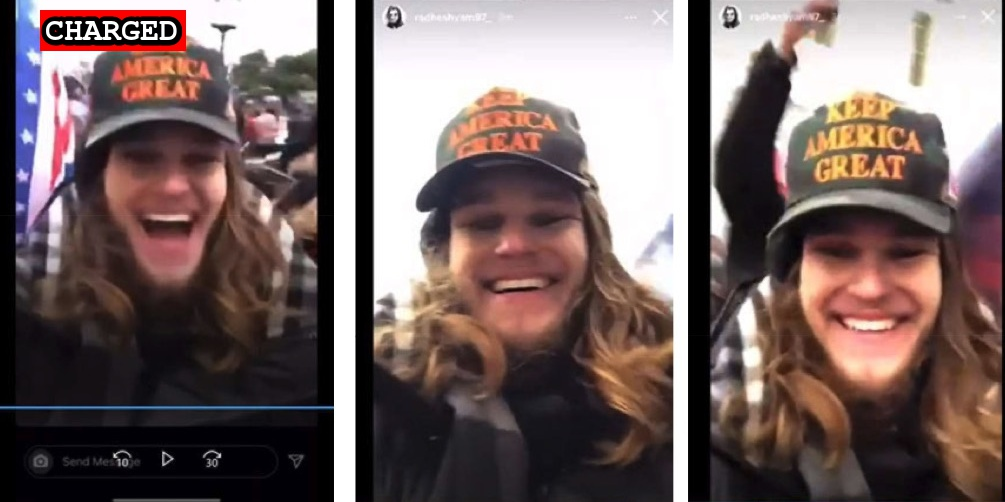
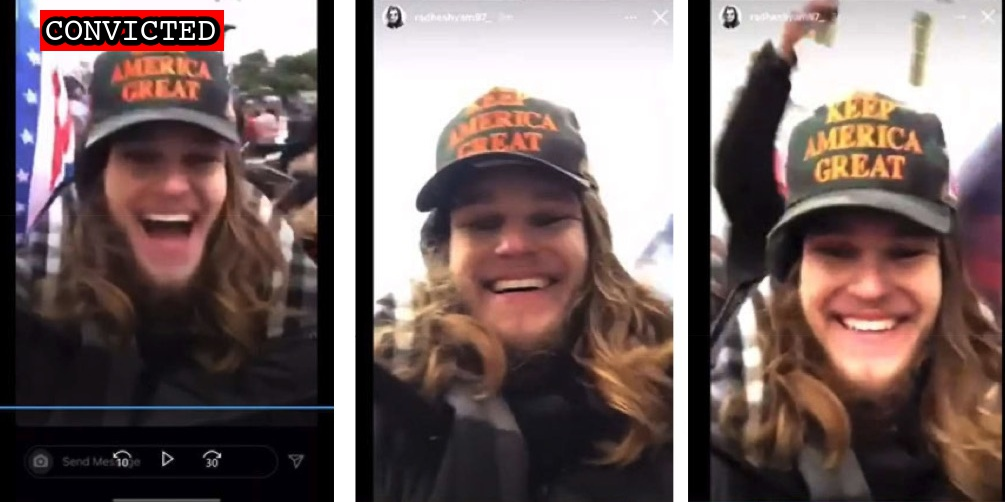
Latest import

Changed region(s): [[0.0308, 0.0, 0.2468, 0.1195]]

diff --git a/docs/_suspects/andrew-ericson.md b/docs/_suspects/andrew-ericson.md
@@ -34,18 +34,17 @@ published: true
 caseNumber: 1:21-mj-131
 videos:
 charges:
-  - code: 18 USC § 5104(e)(2)(G)
-    title: Parading, Demonstrating or Picketing in a Capitol Building
-    url: https://www.law.cornell.edu/uscode/text/40/5104
-    felony: false
+- code: 18 USC § 5104(e)(2)(G)
+  title: Parading, Demonstrating or Picketing in a Capitol Building
+  url: https://www.law.cornell.edu/uscode/text/40/5104
+  felony: false
 sentence:
   - 20 days in prison (weekends)
   - 2 years probation
   - $500 restitution
 ---
-
 - [News Report](https://tulsaworld.com/news/local/oklahoma-man-faces-charges-in-connection-with-capitol-riot/article_1afe3f28-5d08-11eb-ad02-77c1bc298fa5.html)
-- [Statement of Facts](https://www.justice.gov/opa/page/file/1359591/download)
+- [Statement of Facts](https://www.justice.gov/usao-dc/case-multi-defendant/file/1456076/download)
 - [Complaint](https://www.justice.gov/opa/page/file/1359591/download)
 - [Information](https://www.justice.gov/usao-dc/case-multi-defendant/file/1424651/download)
-- [Plea Agreement](https://extremism.gwu.edu/sites/g/files/zaxdzs2191/f/Andrew%20Ericson%20Plea%20Agreement.pdf)
+- [Plea Agreement](https://www.justice.gov/usao-dc/case-multi-defendant/file/1456081/download)

diff --git a/docs/_suspects/christian-kulas.md b/docs/_suspects/christian-kulas.md
@@ -4,15 +4,15 @@ lastName: Kulas
 hashtag: ChristianKulas
 aka:
 residence: Illinois
-status: Charged
+status: Convicted
 date: 2021-06-03
 charged: 2021-06-03
 indicted:
-convicted: 
-sentenced: 
-dismissed: 
+convicted: 2021-12-06
+sentenced:
+dismissed:
 deceased:
-plea_hearing:
+plea_hearing: 2021-12-06
 sentencing:
 age: 24
 occupation:
@@ -34,8 +34,14 @@ published: true
 caseNumber: 1:21-cr-397
 videos:
 charges:
+- code: 18 USC § 5104(e)(2)(G)
+  title: Parading, demonstrating or picketing in a Capitol building
+  url: https://www.law.cornell.edu/uscode/text/40/5104
+  felony: false
 sentence:
 ---
 - [News Report](https://abc7chicago.com/north-shore-man-charged-in-jan-6-breach-of-us-capitol/10762676/)
 - [Complaint](https://www.justice.gov/usao-dc/case-multi-defendant/file/1402531/download)
-- [Statement of Facts](https://www.justice.gov/usao-dc/case-multi-defendant/file/1418426/download)
+- [Statement of Facts](https://www.justice.gov/opa/case-multi-defendant/file/1456046/download)
+- [Information](https://www.justice.gov/usao-dc/case-multi-defendant/file/1419106/download)
+- [Plea Agreement](https://www.justice.gov/opa/case-multi-defendant/file/1456041/download)

diff --git a/docs/_suspects/philip-kramer.md b/docs/_suspects/philip-kramer.md
@@ -4,15 +4,15 @@ lastName: Kramer
 hashtag: PhilKramer
 aka: Phil Kramer
 residence: California
-status: Charged
+status: Convicted
 date: 2021-04-07
 charged: 2021-04-07
 indicted:
-convicted:
+convicted: 2021-12-09
 sentenced:
 dismissed:
 deceased:
-plea_hearing:
+plea_hearing: 2021-12-09
 sentencing:
 age:
 occupation:
@@ -34,9 +34,13 @@ published: true
 caseNumber: 1:21-mj-360
 videos:
 charges:
+- code: 18 USC § 5104(e)(2)(G)
+  title: Parading, demonstrating or picketing in a Capitol building
+  url: https://www.law.cornell.edu/uscode/text/40/5104
+  felony: false
 sentence:
 ---
-
 - [News Report](https://winningcaseamerica.com/index.php/2021/05/19/california-man-accused-of-being-involved-in-jan-6-capitol-siege-says-he-did-nothing-wrong/)
-- [Statement of Facts](https://www.justice.gov/usao-dc/case-multi-defendant/file/1393626/download)
+- [Statement of Facts](https://www.justice.gov/usao-dc/case-multi-defendant/file/1456071/download)
 - [Information](https://www.justice.gov/usao-dc/case-multi-defendant/file/1419096/download)
+- [Plea Agreement](https://www.justice.gov/usao-dc/case-multi-defendant/file/1456066/download)

diff --git a/docs/_suspects/paul-westover.md b/docs/_suspects/paul-westover.md
@@ -42,6 +42,6 @@ sentence:
 ---
 - [News Report](https://www.stltoday.com/news/local/crime-and-courts/st-louis-county-man-accused-of-role-in-capitol-riot-released-from-jail/article_6b5119e8-6368-5621-bfe0-8da222eb185c.html)
 - [Self Incrimination (Video)](https://twitter.com/violetscrawley/status/1350219274317660161)
-- [Statement of Facts](https://www.justice.gov/usao-dc/case-multi-defendant/file/1365721/download)
+- [Statement of Facts](https://www.justice.gov/usao-dc/case-multi-defendant/file/1456056/download)
 - [Information](https://ecf.dcd.uscourts.gov/doc1/04518916050)
-- [Plea Agreement](https://extremism.gwu.edu/sites/g/files/zaxdzs2191/f/Paul%20Westover%20Plea%20Agreement.pdf)
+- [Plea Agreement](https://www.justice.gov/usao-dc/case-multi-defendant/file/1456051/download)
